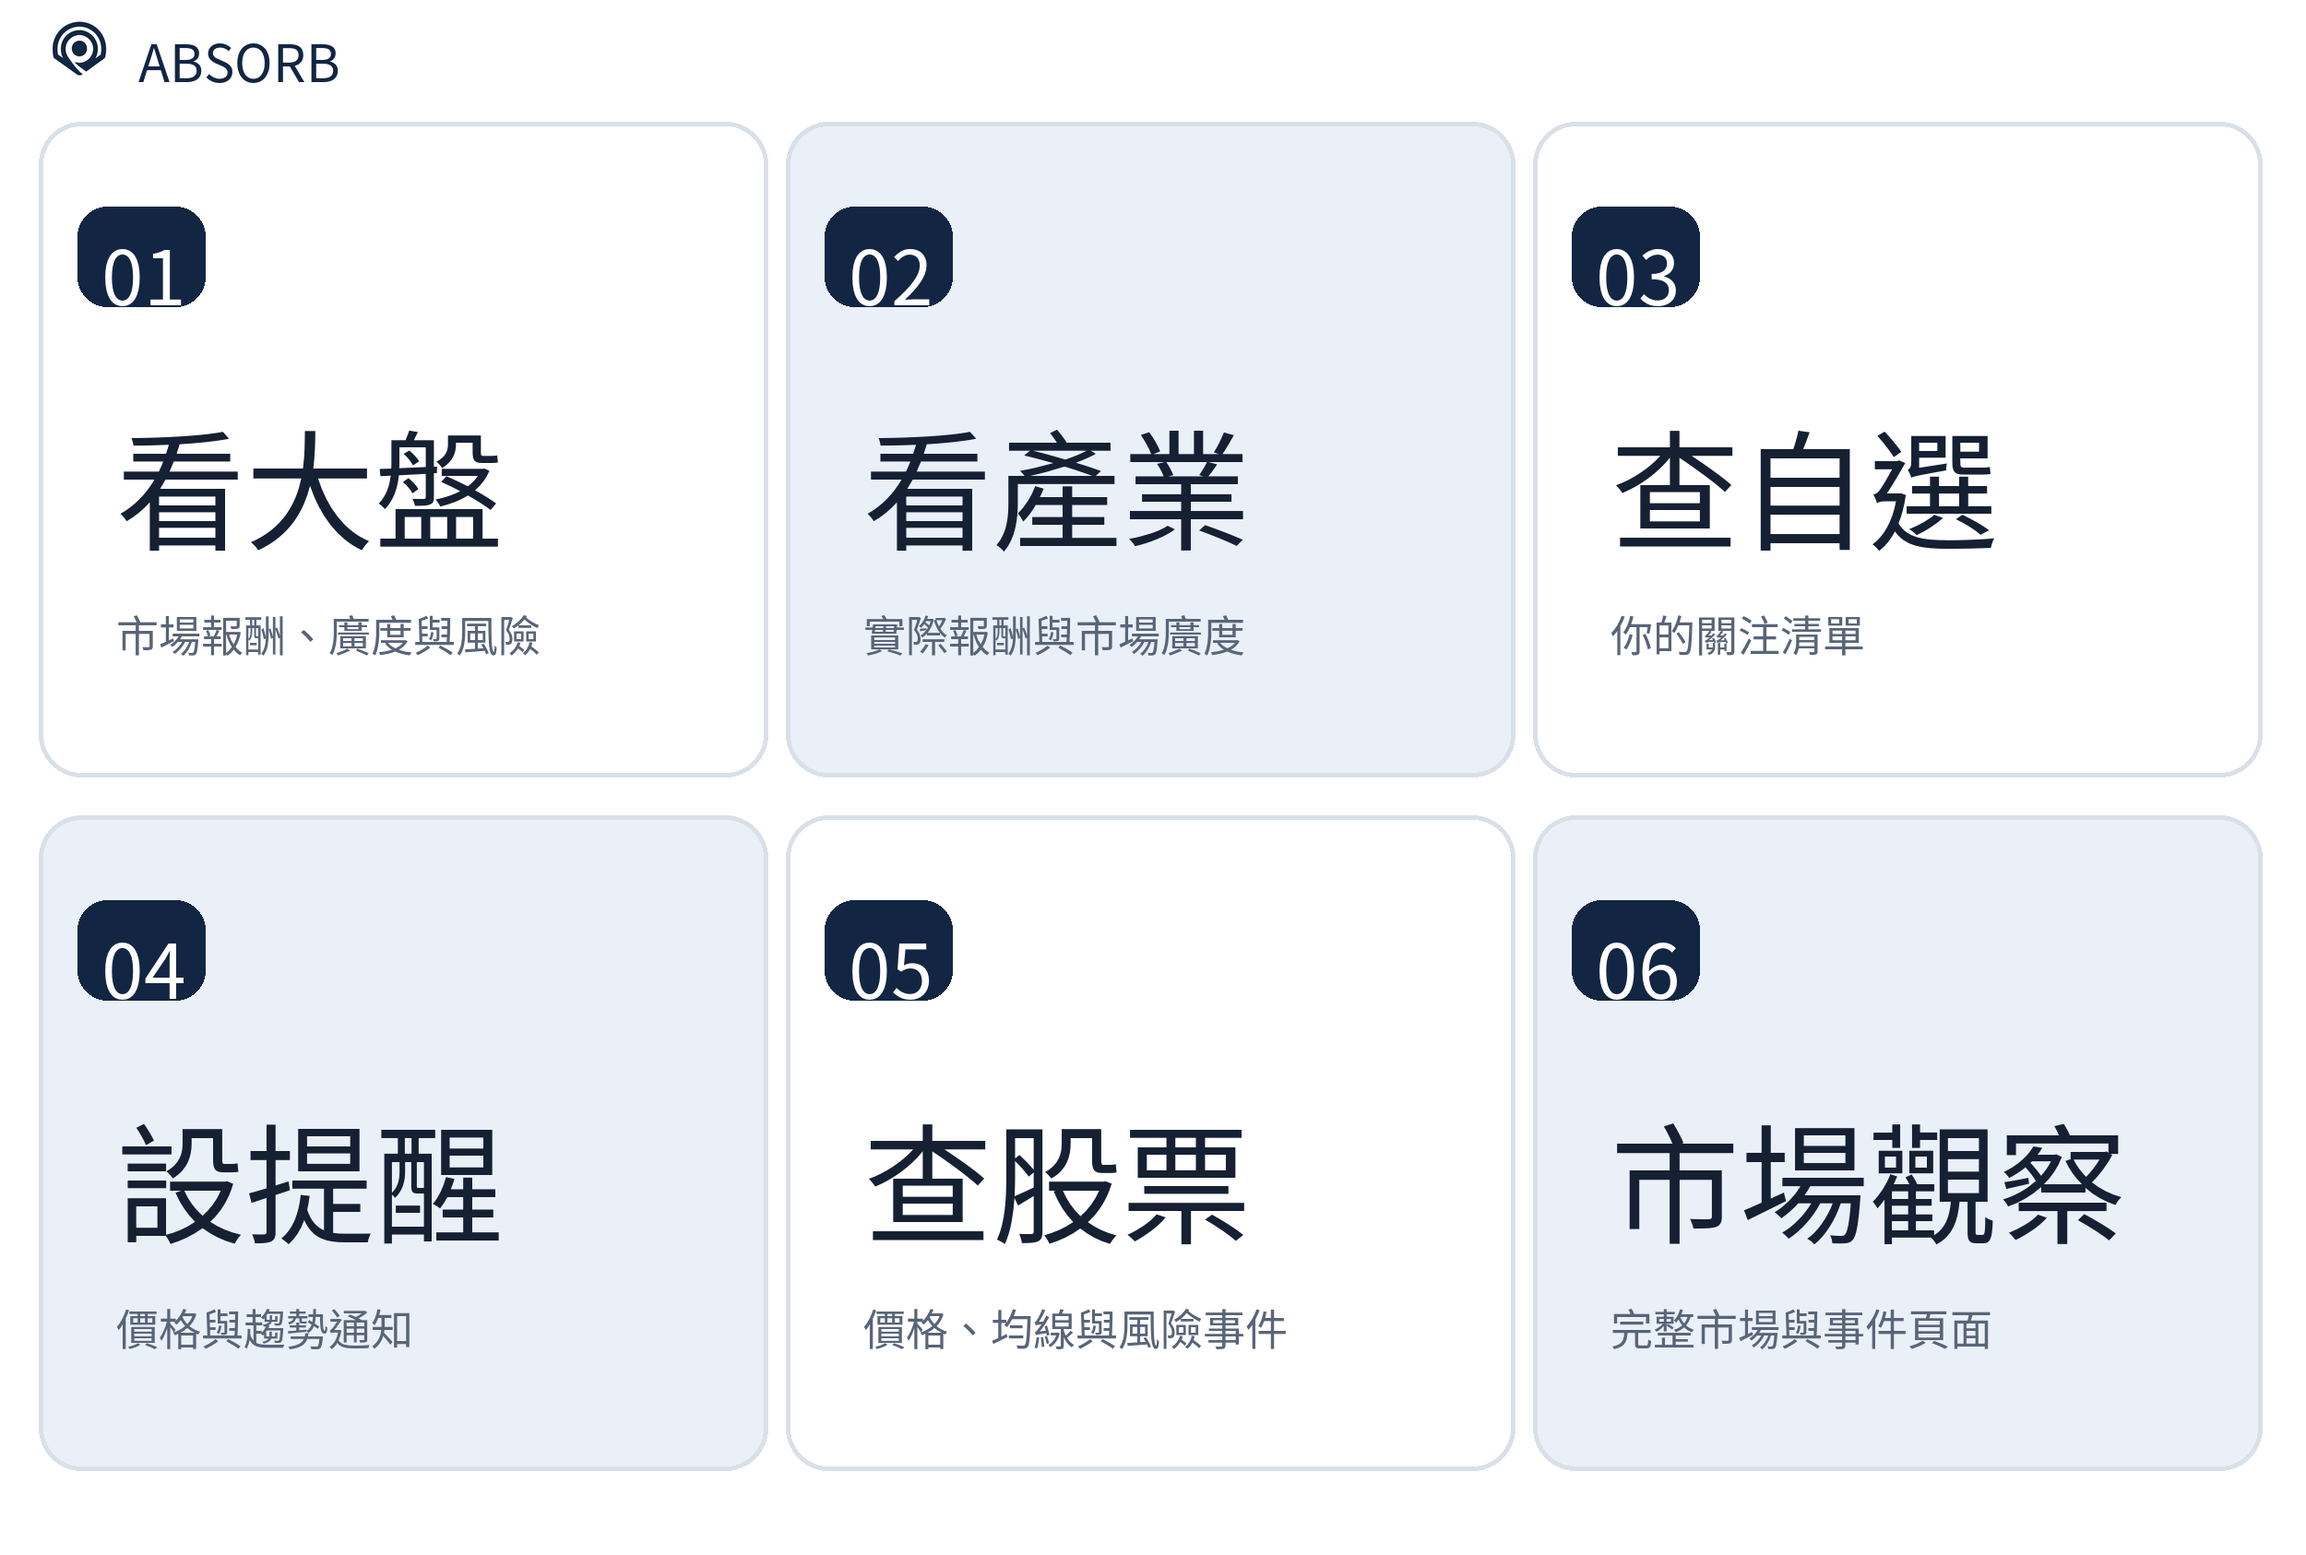
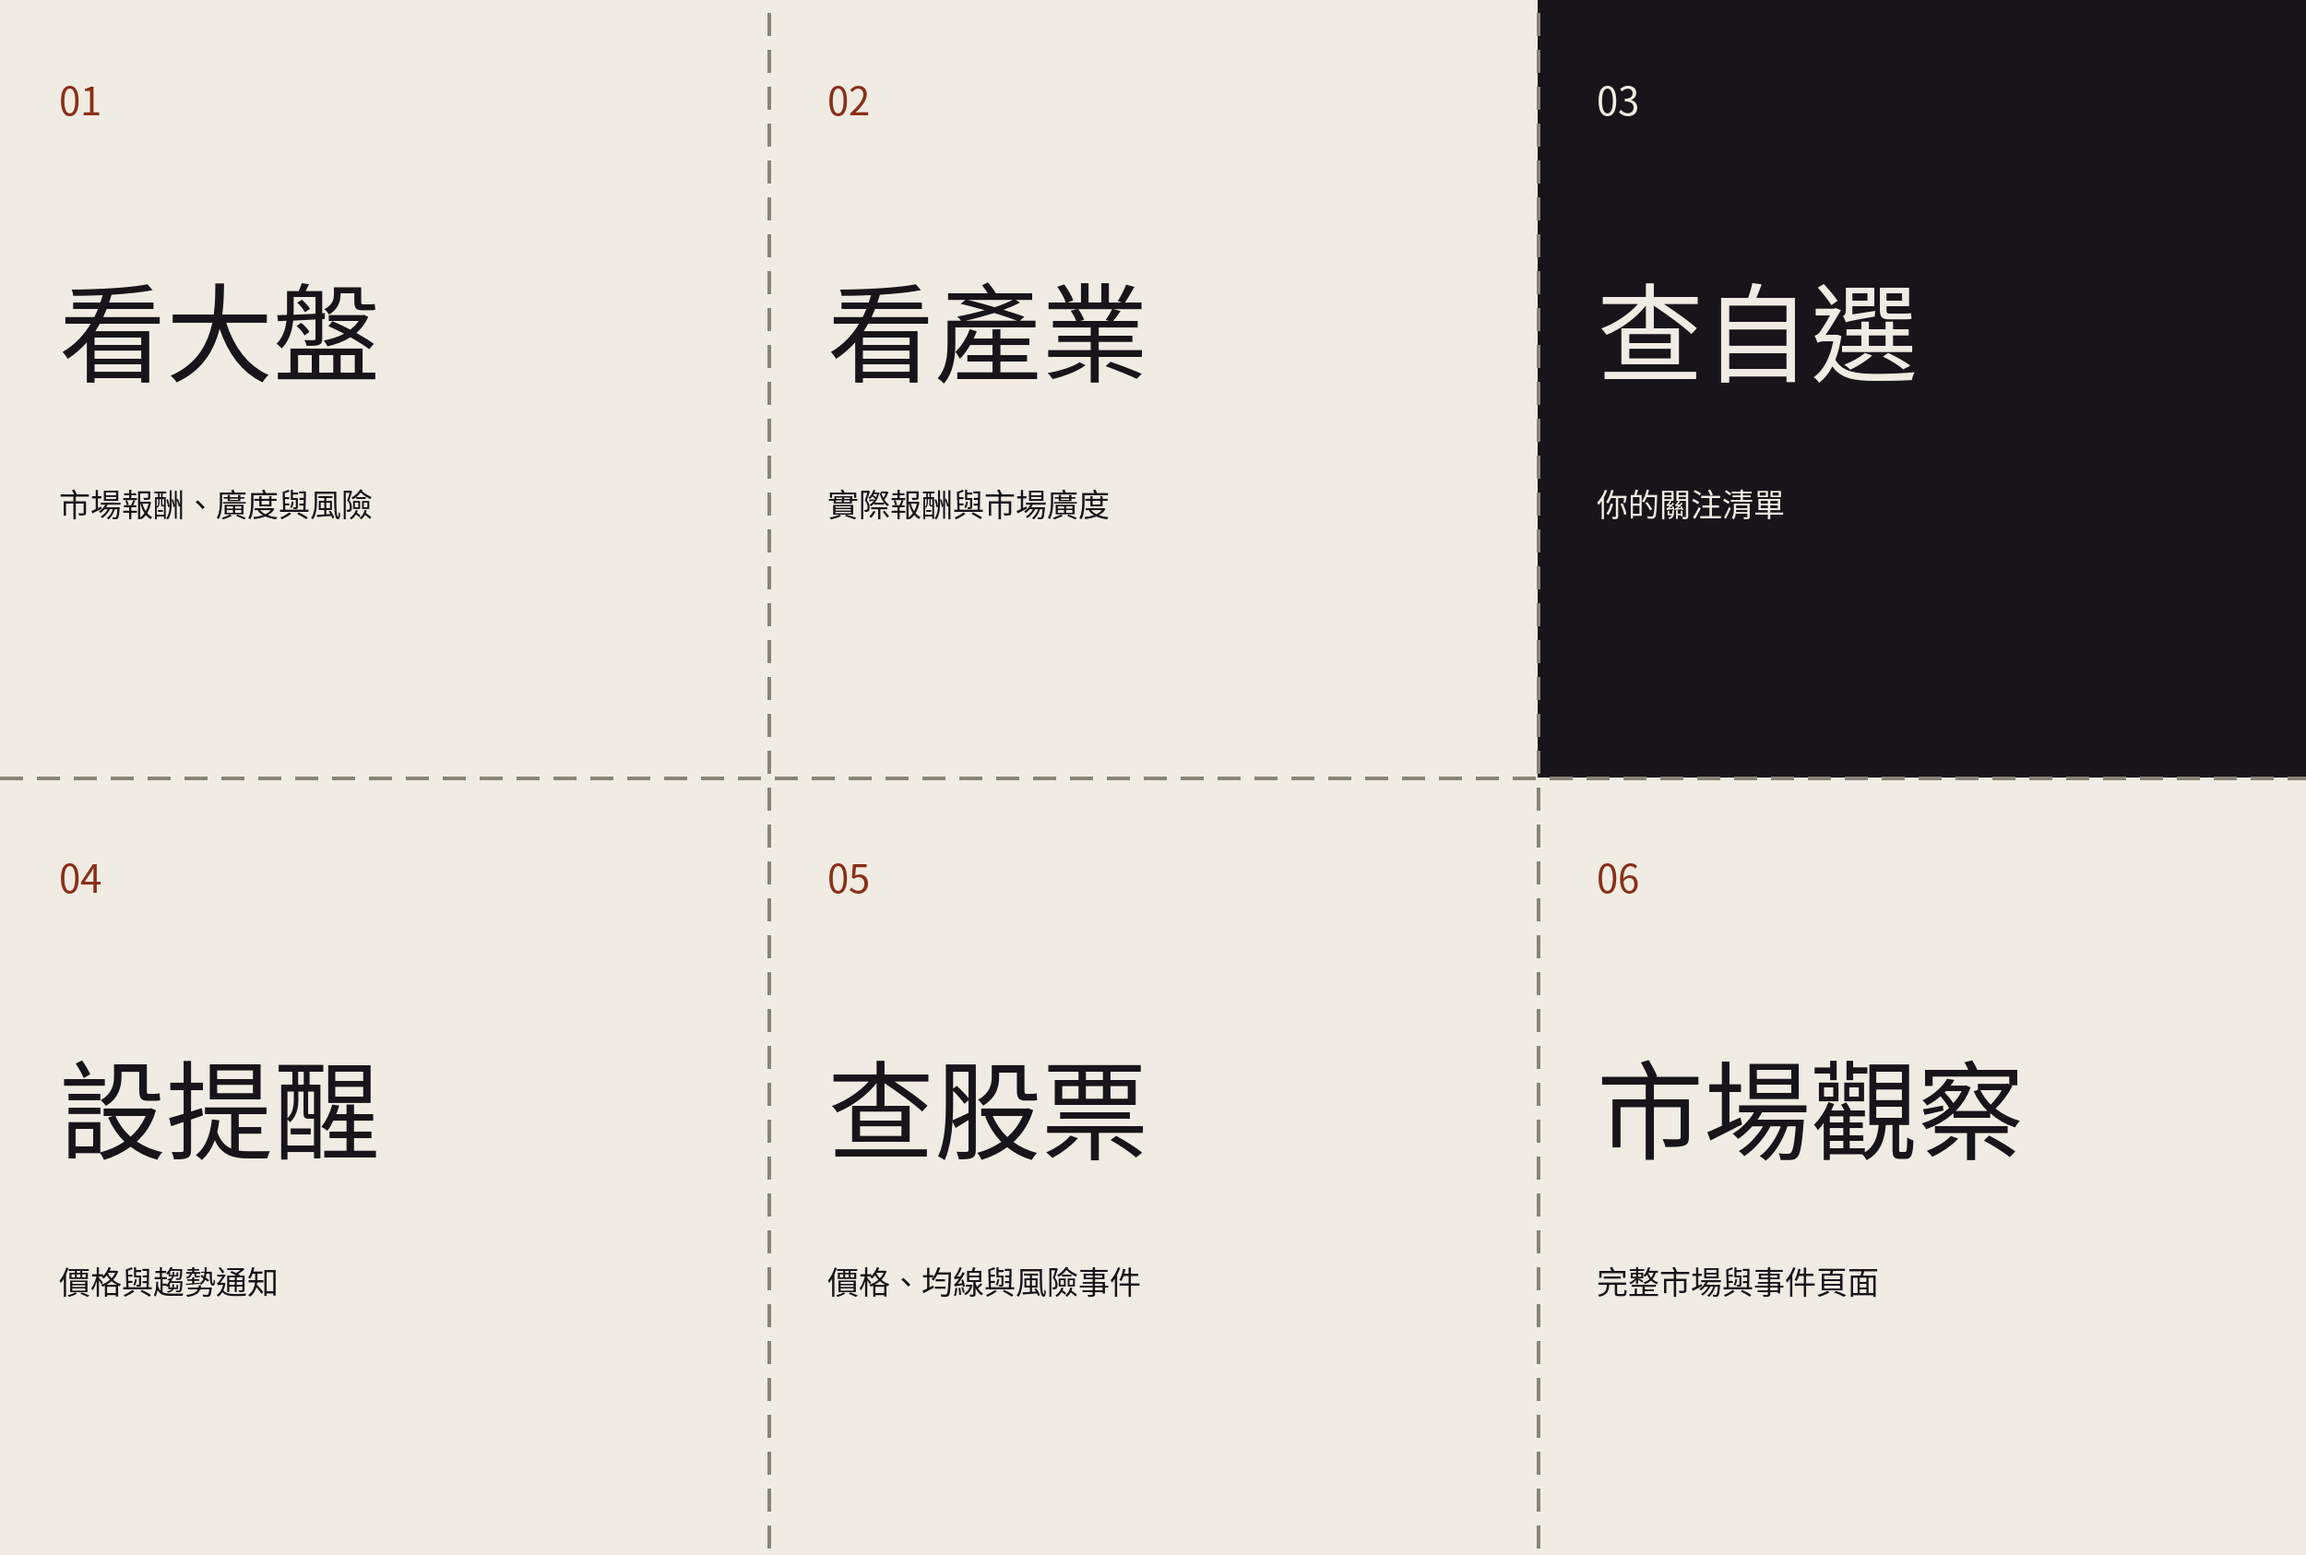
feat(line): rich menu 改為 PRESS BLOCK 六格版面
移除標題帶、logo 與資料日，改為 3x2 等分六格（每格 833x843），areas 座標與 action 未變更。大標改用襯線字，缺檔自動退回 taipei_sans。

diff --git a/scripts/apply_rich_menu.py b/scripts/apply_rich_menu.py
@@ -34,45 +34,60 @@ def cloud_run_info(project, region, service):
     return payload["status"]["url"].rstrip("/"), envs
 
 
-def draw_menu(path, font_path, logo_path):
+def _dashed_line(draw, start, end, fill, width=4, dash=24, gap=16):
+    x1, y1 = start
+    x2, y2 = end
+    if x1 == x2:
+        for y in range(y1, y2, dash + gap):
+            draw.line((x1, y, x2, min(y + dash, y2)), fill=fill, width=width)
+    else:
+        for x in range(x1, x2, dash + gap):
+            draw.line((x, y1, min(x + dash, x2), y2), fill=fill, width=width)
+
+
+def draw_menu(path, font_path, serif_font_path=None):
+    font_path = Path(font_path)
+    if not font_path.is_file():
+        raise SystemExit(f"font missing: {font_path}")
+    serif_font_path = Path(serif_font_path) if serif_font_path else None
+    if not serif_font_path or not serif_font_path.is_file():
+        serif_font_path = font_path
+
     width, height = 2500, 1686
-    image = Image.new("RGB", (width, height), "#ffffff")
+    paper = "#F0ECE3"
+    ink = "#17151A"
+    brick = "#8A2F18"
+    rule = "#8A8377"
+    image = Image.new("RGB", (width, height), paper)
     draw = ImageDraw.Draw(image)
 
-    font_brand = ImageFont.truetype(str(font_path), 56)
-    font_label = ImageFont.truetype(str(font_path), 140)
-    font_hint = ImageFont.truetype(str(font_path), 46)
-    font_code = ImageFont.truetype(str(font_path), 82)
-    logo = Image.open(logo_path).convert("RGB").resize((88, 88), Image.Resampling.LANCZOS)
-    image.paste(logo, (42, 12))
-    draw.text((150, 24), "ABSORB", font=font_brand, fill="#122643")
+    font_label = ImageFont.truetype(str(serif_font_path), 116)
+    font_hint = ImageFont.truetype(str(font_path), 34)
+    font_code = ImageFont.truetype(str(font_path), 42)
 
     tiles = [
-        (42, 132, "01", "看大盤", "市場報酬、廣度與風險"),
-        (852, 132, "02", "看產業", "實際報酬與市場廣度"),
-        (1662, 132, "03", "查自選", "你的關注清單"),
-        (42, 884, "04", "設提醒", "價格與趨勢通知"),
-        (852, 884, "05", "查股票", "價格、均線與風險事件"),
-        (1662, 884, "06", "市場觀察", "完整市場與事件頁面"),
+        (0, 0, 833, 843, "01", "看大盤", "市場報酬、廣度與風險"),
+        (833, 0, 834, 843, "02", "看產業", "實際報酬與市場廣度"),
+        (1667, 0, 833, 843, "03", "查自選", "你的關注清單"),
+        (0, 843, 833, 843, "04", "設提醒", "價格與趨勢通知"),
+        (833, 843, 834, 843, "05", "查股票", "價格、均線與風險事件"),
+        (1667, 843, 833, 843, "06", "市場觀察", "完整市場與事件頁面"),
     ]
-    for x, y, code, label, hint in tiles:
-        draw.rounded_rectangle(
-            [x, y, x + 790, y + 710],
-            radius=46,
-            fill="#ffffff" if code in {"01", "03", "05"} else "#eaf0f7",
-            outline="#d9e0e8",
-            width=5,
-        )
-        draw.rounded_rectangle(
-            [x + 42, y + 92, x + 180, y + 200],
-            radius=32,
-            fill="#122643",
-            outline="#122643",
-            width=4,
-        )
-        draw.text((x + 68, y + 103), code, font=font_code, fill="#ffffff")
-        draw.text((x + 84, y + 290), label, font=font_label, fill="#152033")
-        draw.text((x + 84, y + 520), hint, font=font_hint, fill="#586579")
+    draw.rectangle((0, 0, width, 14), fill=ink)
+    draw.rectangle((1667, 14, width, 843), fill=ink)
+    for x, y, tile_width, tile_height, code, label, hint in tiles:
+        selected = code == "03"
+        fill = ink if selected else paper
+        text_color = paper if selected else ink
+        eyebrow_color = paper if selected else brick
+        draw.rectangle((x, y, x + tile_width - 1, y + tile_height - 1), fill=fill)
+        draw.text((x + 64, y + 76), code, font=font_code, fill=eyebrow_color)
+        draw.text((x + 64, y + 270), label, font=font_label, fill=text_color)
+        draw.text((x + 64, y + 520), hint, font=font_hint, fill=text_color)
+
+    _dashed_line(draw, (833, 14), (833, height), rule)
+    _dashed_line(draw, (1667, 14), (1667, height), rule)
+    _dashed_line(draw, (0, 843), (width, 843), rule)
 
     image.save(path, "PNG", optimize=True)
 
@@ -93,17 +108,23 @@ def line_request(method, url, token, body=None, content_type="application/json")
 
 
 def main():
+    root = Path(__file__).resolve().parents[1]
     parser = argparse.ArgumentParser()
     parser.add_argument("--project", default="line-stock-bot-498908")
     parser.add_argument("--region", default="asia-east1")
     parser.add_argument("--service", default="line-stock-bot")
     parser.add_argument("--base-url")
+    parser.add_argument("--font", type=Path, default=root / "taipei_sans.ttf")
+    parser.add_argument(
+        "--serif-font",
+        type=Path,
+        default=root / "assets" / "fonts" / "NotoSerifTC-Black.otf",
+    )
     parser.add_argument("--dry-run", action="store_true")
     args = parser.parse_args()
 
-    root = Path(__file__).resolve().parents[1]
     png = root / "assets" / "rich-menu.png"
-    draw_menu(png, root / "taipei_sans.ttf", root / "static" / "brand" / "absorb-mark-128.png")
+    draw_menu(png, args.font, args.serif_font)
 
     if args.base_url:
         base_url, envs = args.base_url.rstrip("/"), {}
